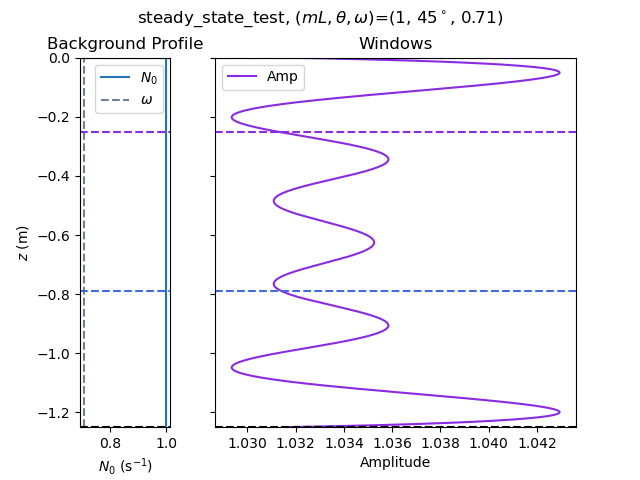
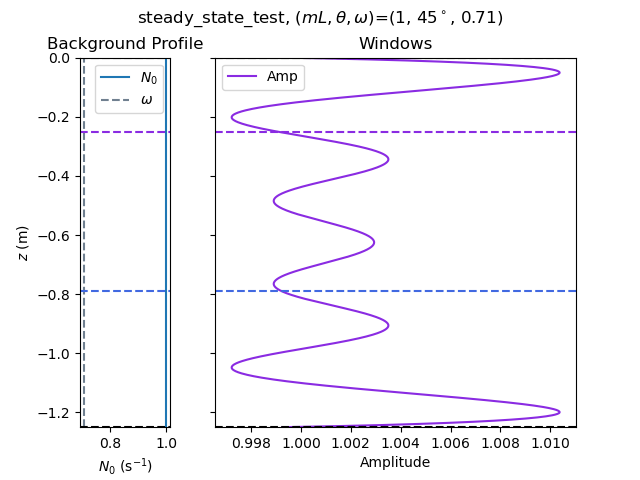
AA_for_z now uses avg instead of max

Changed region(s): [[0.3438, 0.9062, 0.9062, 0.9375]]

diff --git a/helper_functions.py b/helper_functions.py
@@ -420,7 +420,7 @@ def plot_AA_for_z(BP_array, dn_array, z, mL, theta, omega, T_skip=None, T=None, 
     # Find maximum value of the field times its complex conjugate for each z
     I_and_T_for_z = z*0.0
     for i in range(len(z)):
-        I_and_T_for_z[i] = max_amp_at_z(dn_array[i], T_skip, T, t)
+        I_and_T_for_z[i] = avg_within_bounds(dn_array[i]) #max_amp_at_z(dn_array[i], T_skip, T, t) 
     # Plot boudnary forcing and sponge layer windows
     axes[1].plot(I_and_T_for_z, z, color=my_clrs['incident'], label='Amp')
     # Add horizontal lines
